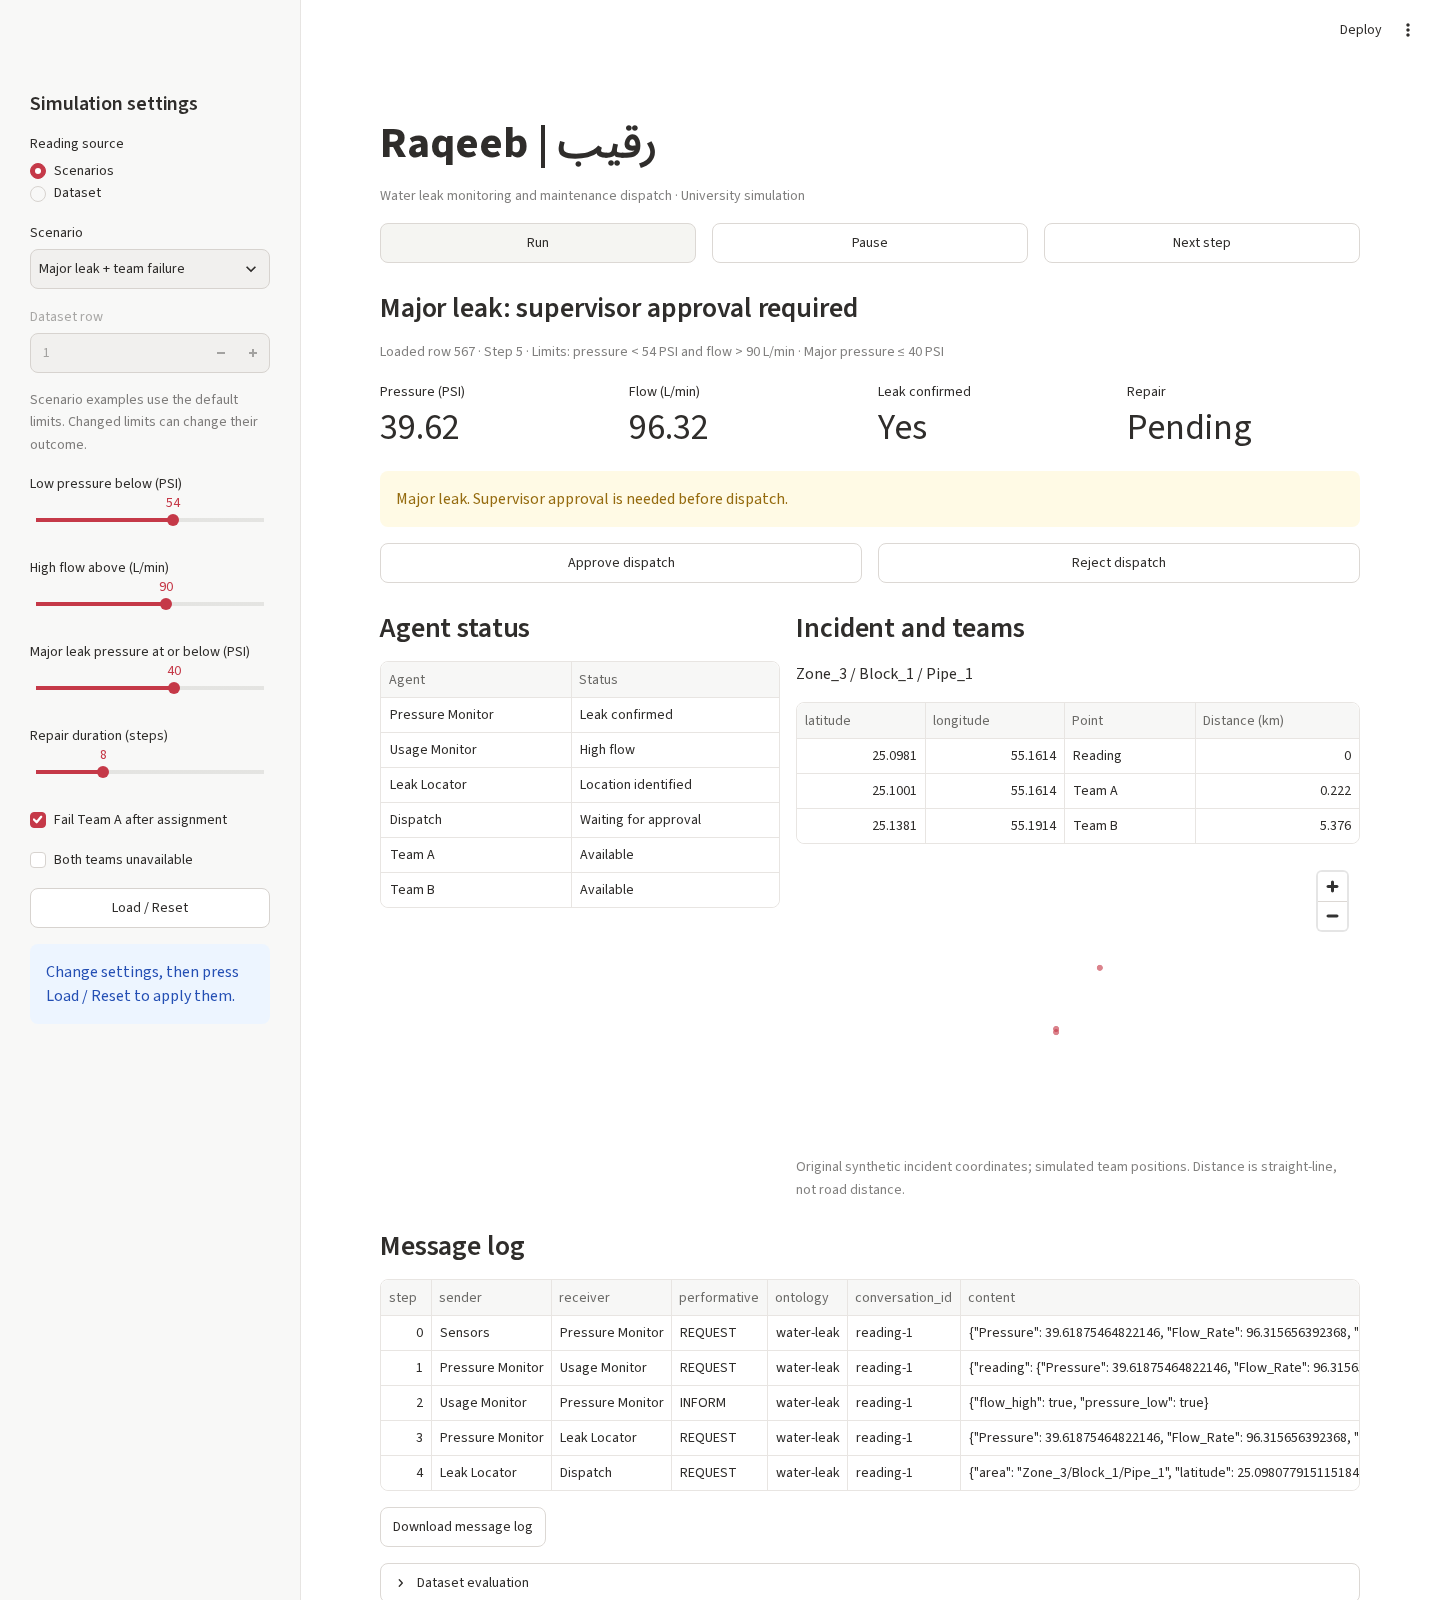
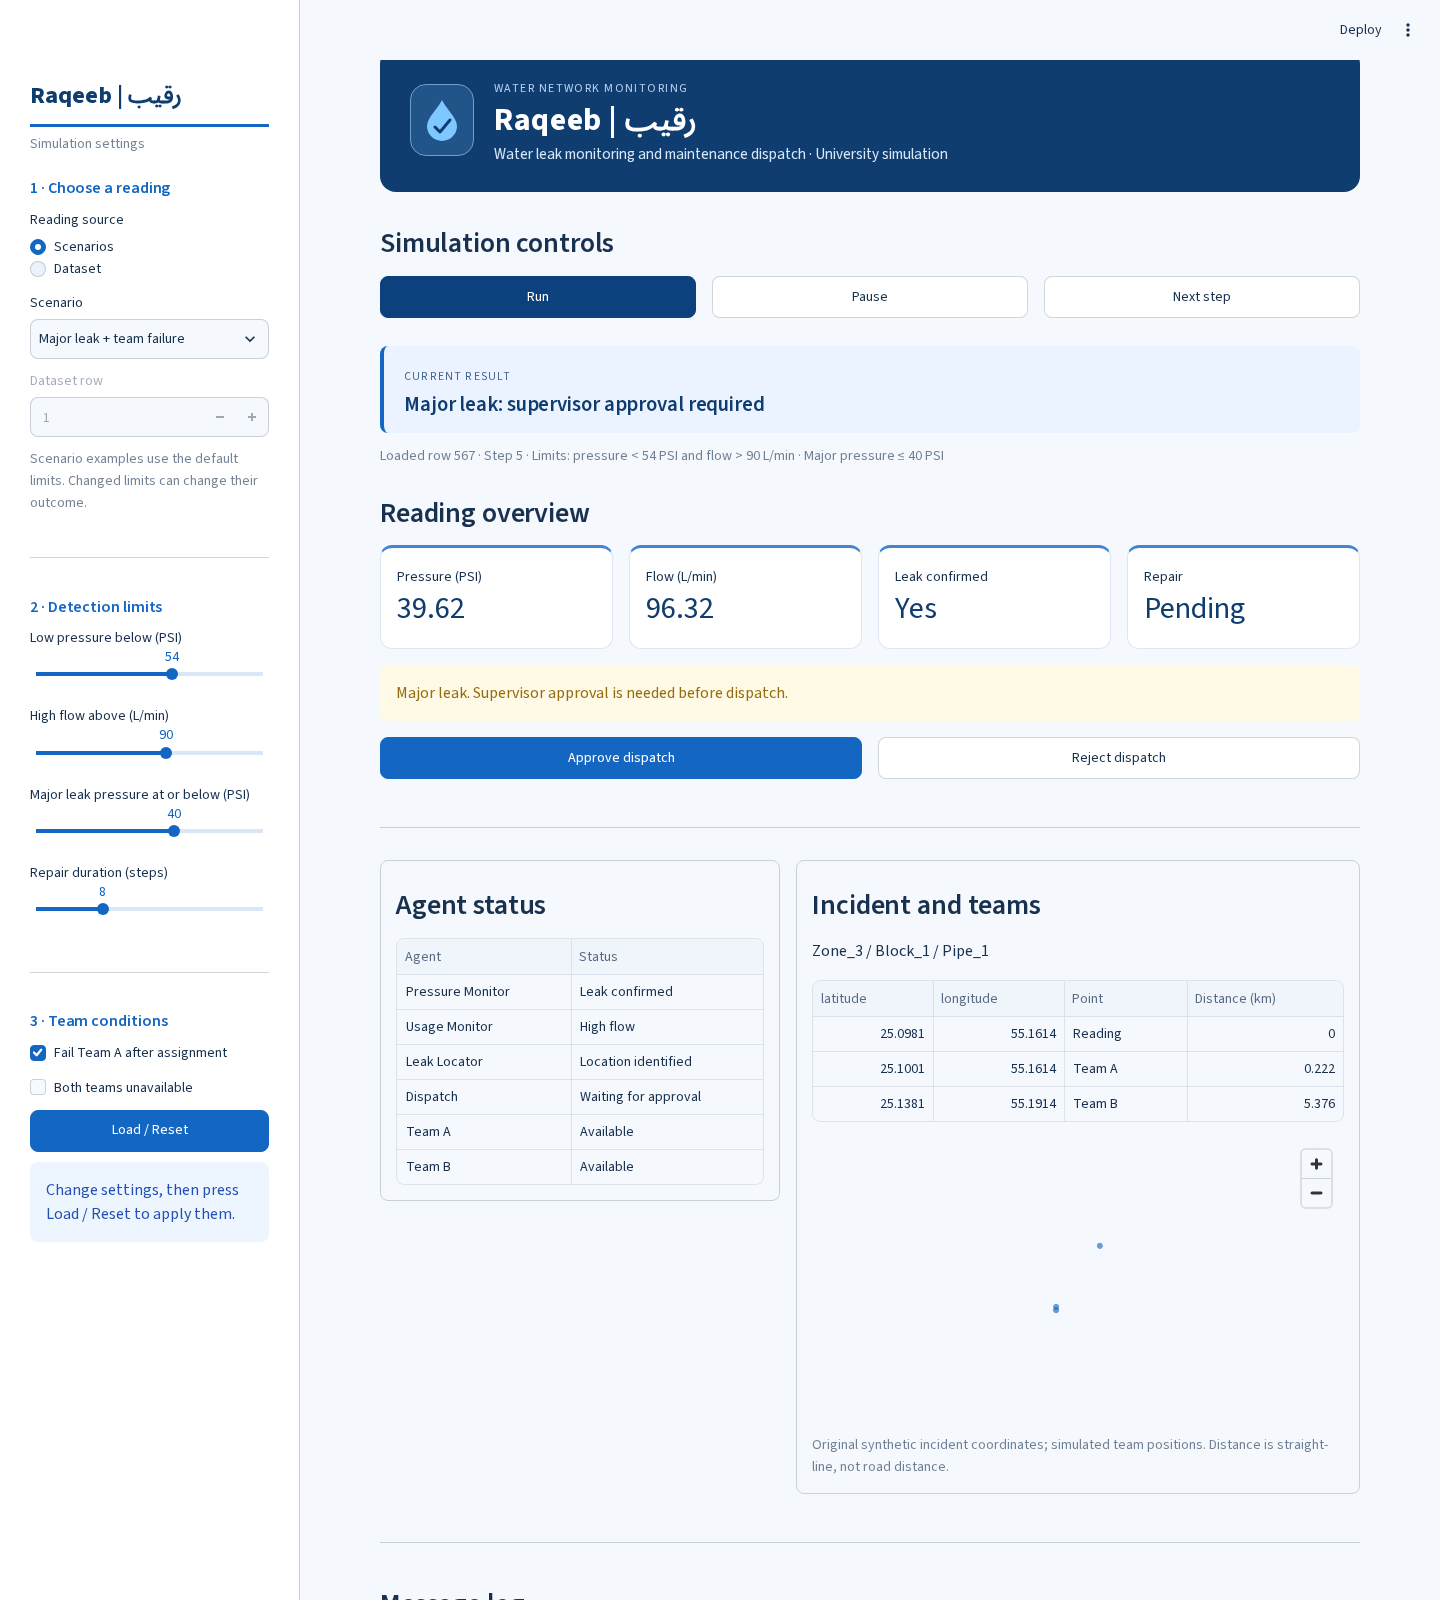
Organize dashboard and add blue Raqeeb identity

diff --git a/style.css b/style.css
@@ -1,0 +1,26 @@
+.block-container { max-width: 1420px; padding-top: 2rem; padding-bottom: 2rem; }
+[data-testid="stSidebar"] { background: #fff; border-right: 1px solid #dce7f3; }
+[data-testid="stSidebar"] h3 { color: #1466c3; font-size: 1rem; }
+[data-testid="stSidebar"] [data-testid="stVerticalBlock"] { gap: .65rem; }
+.raqeeb-header { display: flex; align-items: center; gap: 20px; padding: 26px 30px; margin-bottom: 22px; background: #103d70; border-radius: 16px; color: white; }
+.raqeeb-mark { display: grid; place-items: center; width: 64px; height: 72px; flex-shrink: 0; border: 1px solid #729dcc; border-radius: 16px; background: #215488; }
+.raqeeb-header h1 { color: white; font-size: 2rem; padding: 0; margin: 0 0 4px; letter-spacing: .02em; }
+.raqeeb-header p { color: #d8e8fa; margin: 0; font-size: .95rem; line-height: 1.6; }
+.raqeeb-header small { color: #b4d0ef; font-size: .75rem; letter-spacing: .12em; }
+.raqeeb-side { color: #103d70; font-weight: 750; font-size: 1.5rem; padding-bottom: .6rem; border-bottom: 3px solid #1466c3; margin-bottom: 12px; }
+.raqeeb-status { background: #eaf3ff; border-left: 4px solid #1466c3; padding: 16px 20px; border-radius: 8px; margin: 12px 0; }
+.raqeeb-status small { color: #45678f; font-size: .73rem; text-transform: uppercase; letter-spacing: .1em; }
+.raqeeb-status h3 { font-size: 1.3rem; padding: 5px 0 0; margin: 0; color: #103d70; }
+[data-testid="stMetric"] { border: 1px solid #dce7f3; border-top: 3px solid #4484d1; border-radius: 12px; background: white; padding: 16px; }
+[data-testid="stMetricValue"] { color: #103d70; font-size: 1.9rem; }
+[data-testid="stVerticalBlockBorderWrapper"] > div { border-color: #dce7f3; border-radius: 12px; }
+h3 { font-size: 1.15rem; color: #103d70; }
+[data-testid="stButton"] button { border-radius: 8px; min-height: 42px; font-weight: 600; }
+[data-testid="stDataFrame"] { border-radius: 8px; }
+@media (max-width: 700px) {
+  .block-container { padding: 1.2rem; }
+  .raqeeb-header { padding: 20px 16px; gap: 14px; }
+  .raqeeb-header h1 { font-size: 1.5rem; }
+  .raqeeb-header p { font-size: .85rem; }
+  .raqeeb-mark { width: 48px; height: 58px; }
+}

diff --git a/app.py b/app.py
@@ -1,4 +1,6 @@
 import json
+from html import escape
+from pathlib import Path
 
 import pandas as pd
 import streamlit as st
@@ -8,7 +10,8 @@ from data_loader import load_data
 from simulation import Simulation, evaluate, scenario_reading
 
 
-st.set_page_config(page_title="Raqeeb", page_icon="💧", layout="wide")
+st.set_page_config(page_title="Raqeeb | رقيب", page_icon="💧", layout="wide")
+st.markdown(f"<style>{Path(__file__).with_name('style.css').read_text()}</style>", unsafe_allow_html=True)
 
 
 @st.cache_data
@@ -22,24 +25,42 @@ except (OSError, ValueError) as error:
     st.error(f"Could not load data: {error}")
     st.stop()
 
-st.title("Raqeeb | رقيب")
-st.caption("Water leak monitoring and maintenance dispatch · University simulation")
+st.markdown("""
+<div class="raqeeb-header">
+  <div class="raqeeb-mark" aria-hidden="true">
+    <svg width="36" height="44" viewBox="0 0 36 44" fill="none">
+      <path d="M18 2C15 9 3 20 3 28a15 15 0 0 0 30 0C33 20 21 9 18 2Z" fill="#7EC8FF"/>
+      <path d="M11 29l5 5 10-12" stroke="#103D70" stroke-width="3" stroke-linecap="round" stroke-linejoin="round"/>
+    </svg>
+  </div>
+  <div><small>WATER NETWORK MONITORING</small>
+    <h1>Raqeeb <span lang="ar">| رقيب</span></h1>
+    <p>Water leak monitoring and maintenance dispatch · University simulation</p>
+  </div>
+</div>
+""", unsafe_allow_html=True)
 
 with st.sidebar:
-    st.header("Simulation settings")
+    st.markdown('<div class="raqeeb-side">Raqeeb | رقيب</div>', unsafe_allow_html=True)
+    st.caption("Simulation settings")
+    st.subheader("1 · Choose a reading")
     source = st.radio("Reading source", ["Scenarios", "Dataset"])
     scenario = st.selectbox("Scenario", ["Normal", "Minor leak", "Major leak + team failure"],
                             disabled=source != "Scenarios")
     row_number = st.number_input("Dataset row", 1, len(readings), 1, disabled=source != "Dataset")
     st.caption("Scenario examples use the default limits. Changed limits can change their outcome.")
+    st.divider()
+    st.subheader("2 · Detection limits")
     pressure_limit = st.slider("Low pressure below (PSI)", 30, 70, 54)
     flow_limit = st.slider("High flow above (L/min)", 50, 120, 90)
     major_limit = st.slider("Major leak pressure at or below (PSI)", 20, pressure_limit - 1,
                             min(40, pressure_limit - 1))
     repair_ticks = st.slider("Repair duration (steps)", 3, 20, 8)
+    st.divider()
+    st.subheader("3 · Team conditions")
     fail_first = st.checkbox("Fail Team A after assignment", value=scenario == "Major leak + team failure")
     unavailable = st.checkbox("Both teams unavailable")
-    if st.button("Load / Reset", width="stretch") or "sim" not in st.session_state:
+    if st.button("Load / Reset", width="stretch", type="primary") or "sim" not in st.session_state:
         if source == "Scenarios":
             index, reading = scenario_reading(readings, scenario)
         else:
@@ -54,8 +75,9 @@ with st.sidebar:
 @st.fragment(run_every=0.5)
 def dashboard():
     sim = st.session_state.sim
+    st.subheader("Simulation controls")
     columns = st.columns(3)
-    if columns[0].button("Run", width="stretch"):
+    if columns[0].button("Run", width="stretch", type="primary"):
         sim.start()
         st.session_state.running = True
     if columns[1].button("Pause", width="stretch"):
@@ -69,10 +91,12 @@ def dashboard():
     if not sim.active:
         st.session_state.running = False
 
-    st.subheader(sim.result)
+    st.markdown(f'<div class="raqeeb-status"><small>Current result</small><h3>{escape(sim.result)}</h3></div>',
+                unsafe_allow_html=True)
     st.caption(f"Loaded row {st.session_state.row} · Step {sim.step_number} · "
                f"Limits: pressure < {sim.pressure_limit} PSI and flow > {sim.flow_limit} L/min · "
                f"Major pressure ≤ {sim.major_limit} PSI")
+    st.subheader("Reading overview")
     a, b, c, d = st.columns(4)
     a.metric("Pressure (PSI)", f"{sim.reading['Pressure']:.2f}")
     b.metric("Flow (L/min)", f"{sim.reading['Flow_Rate']:.2f}")
@@ -82,7 +106,7 @@ def dashboard():
     if sim.waiting_approval:
         st.warning("Major leak. Supervisor approval is needed before dispatch.")
         yes, no = st.columns(2)
-        if yes.button("Approve dispatch", width="stretch"):
+        if yes.button("Approve dispatch", width="stretch", type="primary"):
             sim.approve(True)
             st.session_state.running = True
             st.rerun(scope="fragment")
@@ -91,13 +115,14 @@ def dashboard():
             st.session_state.running = True
             st.rerun(scope="fragment")
 
+    st.divider()
     left, right = st.columns([1, 1.4])
-    with left:
+    with left, st.container(border=True):
         st.subheader("Agent status")
         st.dataframe(pd.DataFrame([{"Agent": agent.name, "Status": agent.status}
                                    for agent in sim.agents.values()]), hide_index=True,
                      width="stretch")
-    with right:
+    with right, st.container(border=True):
         st.subheader("Incident and teams")
         st.write(" / ".join(sim.reading[key] for key in ("Zone", "Block", "Pipe")))
         points = [{"latitude": sim.reading["Latitude"], "longitude": sim.reading["Longitude"],
@@ -110,10 +135,15 @@ def dashboard():
         st.map(pd.DataFrame(points), latitude="latitude", longitude="longitude", zoom=10, height=280)
         st.caption("Original synthetic incident coordinates; simulated team positions. Distance is straight-line, not road distance.")
 
+    st.divider()
     st.subheader("Message log")
     log = [{**message, "content": json.dumps(message["content"], ensure_ascii=False)} for message in sim.messages]
     if log:
-        st.dataframe(pd.DataFrame(log), hide_index=True, width="stretch")
+        st.dataframe(pd.DataFrame(log), hide_index=True, width="stretch", column_config={
+            "step": "Step", "sender": "From", "receiver": "To", "performative": "Message type",
+            "ontology": "Ontology", "conversation_id": "Conversation", "content": "Content",
+            "delivered": "Delivered",
+        })
     else:
         st.info("Press Run or Next step to start.")
     st.download_button("Download message log", json.dumps(sim.messages, indent=2),
@@ -126,5 +156,13 @@ with st.expander("Dataset evaluation"):
     st.caption("Evaluation uses the loaded simulation limits on all 5,000 rows. These are rule-based synthetic labels; this is not a trained model or proof of real-world accuracy.")
     sim = st.session_state.sim
     scores = evaluate(readings, labels, sim.pressure_limit, sim.flow_limit)
-    st.dataframe(pd.DataFrame([scores]), hide_index=True, width="stretch")
+    cards = st.columns(4)
+    for card, key in zip(cards, ("accuracy", "precision", "recall", "f1")):
+        card.metric("F1 score" if key == "f1" else key.title(), f"{scores[key]:.2%}")
+    st.dataframe(pd.DataFrame([scores]), hide_index=True, width="stretch", column_config={
+        "accuracy": st.column_config.NumberColumn("Accuracy", format="%.4f"),
+        "precision": st.column_config.NumberColumn("Precision", format="%.4f"),
+        "recall": st.column_config.NumberColumn("Recall", format="%.4f"),
+        "f1": st.column_config.NumberColumn("F1", format="%.4f"),
+    })
 st.caption("Synthetic Kaggle data · Pressure and flow are the only sensor inputs · Leakage_Flag is used only for evaluation.")

diff --git a/README.md b/README.md
@@ -33,6 +33,7 @@ Ten tests cover normal readings, confirmation, approval, rejection, failure reco
 ## Files
 
 - `app.py`: Streamlit interface and controls.
+- `style.css` and `.streamlit/config.toml`: blue project identity and display styling.
 - `agents.py`: five agent roles and distance calculation.
 - `simulation.py`: message queue, step scheduling, scenario selection and evaluation.
 - `data_loader.py`: data loading and validation.
